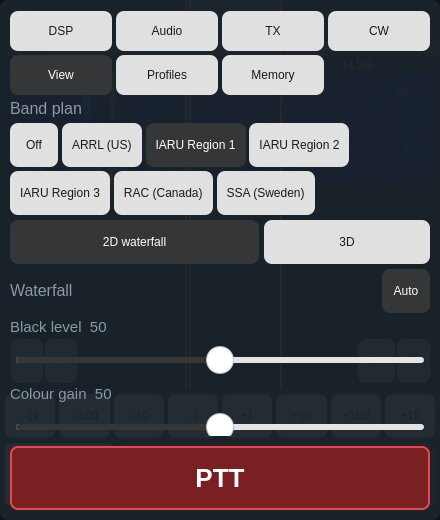
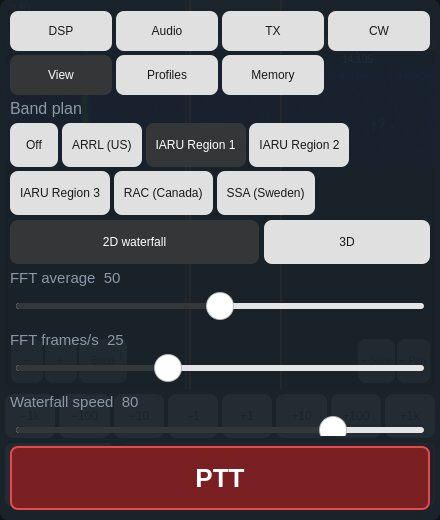
mobile: docs and screenshots for build 70
Claude-Session: https://claude.ai/code/session_01KANojkzU64KoozGDbNDzRK

Changed region(s): [[0.0, 0.4923, 0.975, 0.8], [0.4432, 0.7692, 0.975, 0.8615], [0.2364, 0.5231, 0.2659, 0.5538]]

diff --git a/docs/mobile/MANUAL.md b/docs/mobile/MANUAL.md
@@ -57,7 +57,7 @@ From top to bottom:
 |---|---|
 | Top row | Radio name, [network quality](#network-quality), app version, **Controls** (open or hide the controls), **Setup** ([Radio Setup](#9-radio-setup)), **Manual**, **Log**, **Disconnect** (on an iPhone Setup, Manual, Log and Disconnect are behind **⋯**) |
 | Frequency row | Frequency, mode, and the [info panel](#3-frequency-mode-and-the-info-panel) |
-| Band buttons | 160 m … 6 m |
+| Band buttons | 160 m … 6 m, WWV, GEN |
 | Slice row | The two [meters](#4-meters-and-slices) at the ends, the slices in between |
 | Panadapter and waterfall | The [spectrum display](#5-panadapter-and-waterfall) |
 | Step buttons | Tune by −1 kHz … +1 kHz |
@@ -107,7 +107,9 @@ a hardware keyboard), then *Tune*.
 **Band buttons.** Each band returns to the frequency and mode you last used
 there. The radio keeps these in its *band stack*, which is part of the
 radio's global profile, so a different profile can bring a band back
-elsewhere.
+elsewhere. **WWV** holds the time-signal frequencies and **GEN** general
+coverage, each with its own band-stack memory. On a phone the band row
+scrolls sideways.
 
 **Step buttons.** ±1 Hz … ±1 kHz, landing on round frequencies: +10 Hz from
 14.100 002 goes to 14.100 010, not 14.100 012.
@@ -123,7 +125,7 @@ is a touch target with its choices behind it:
 |---|---|---|
 | **A** (blue) | Slice letter | — |
 | **TX** (red) | This slice transmits | — |
-| **SPLIT** | Split on (amber) or off (grey) | Start or end [split](#6-split) |
+| **SPLIT** | Split on (amber) or off (grey) | Start or end [split](#6-split); hold to pick the offset |
 | **ANT1** (blue) | Receive antenna | Choose the RX antenna |
 | **ANT1** (red) | Transmit antenna | Choose the TX antenna |
 | **2.7K** | Receive filter width | Filters and DSP |
@@ -176,6 +178,10 @@ remembered.
 Available: S, Power, SWR, ALC, Mic, Compression, PA temperature, supply
 voltage. Transmit meters read only while transmitting.
 
+**Peak hold.** Each meter keeps its highest reading for 1.5 s — an amber
+needle on the analog meter, an amber tick on the bar — then lets it fall
+back slowly, so a voice peak or a burst of noise can be read.
+
 **Slices.** Each slice is a button between the meters ("A 14.100 USB"); the
 transmit slice carries a red **TX** tag. Two fit side by side, four make
 2 × 2.
@@ -197,6 +203,8 @@ transmit slice carries a red **TX** tag. Two fit side by side, four make
   Holding the finger at either edge keeps tuning, faster nearer the edge.
 - **Drag anywhere else** to move the view; the frequency stays.
 - **Pinch**, or **− / +** (bottom left), to zoom around the slice.
+- **Band** (beside − / +) zooms out to the whole band you are on; tap it
+  again to return to the slice.
 - The **frequency scale** runs along the top of the waterfall.
 - The **dBm scale** at the left: drag it up or down to move the trace (the
   reference level). In 3D, as on the desktop, the 3D levels stay automatic:
@@ -225,6 +233,11 @@ stacked trace and sets the levels. They work as on the desktop AetherSDR:
   sets how many dB the colours span, so the same signal looks the same on
   any band and a strong carrier does not darken the rest. During and just
   after a transmission the levels hold.
+- **FFT average**, **FFT frames/s** and **Waterfall speed** are the
+  radio's own panadapter settings (as in SmartSDR): averaging smooths the
+  trace on the radio, frames/s sets how often the trace updates, and the
+  waterfall speed how fast lines scroll. Each is sent when the slider is
+  released and kept by the radio.
 - **3D** — the surface takes a row with each waterfall line and glides
   between them. **3D smoothing**: *Off* draws the rows as live as the 2D
   trace, *Light* (default) blends a little with the previous row so the
@@ -251,6 +264,10 @@ is created on the same panadapter for transmit:
 
 Tap **SPLIT** again — or close either slice — to end split: the transmit
 slice closes and transmit returns to the receive slice.
+
+**Press and hold SPLIT** to choose the offset: **+1 kHz**, **+5 kHz** or
+**+10 kHz** above the receive frequency. While split is on, the same menu
+offers **Off**.
 
 ## 7. Transmitting: PTT, KEY and TUNE
 
